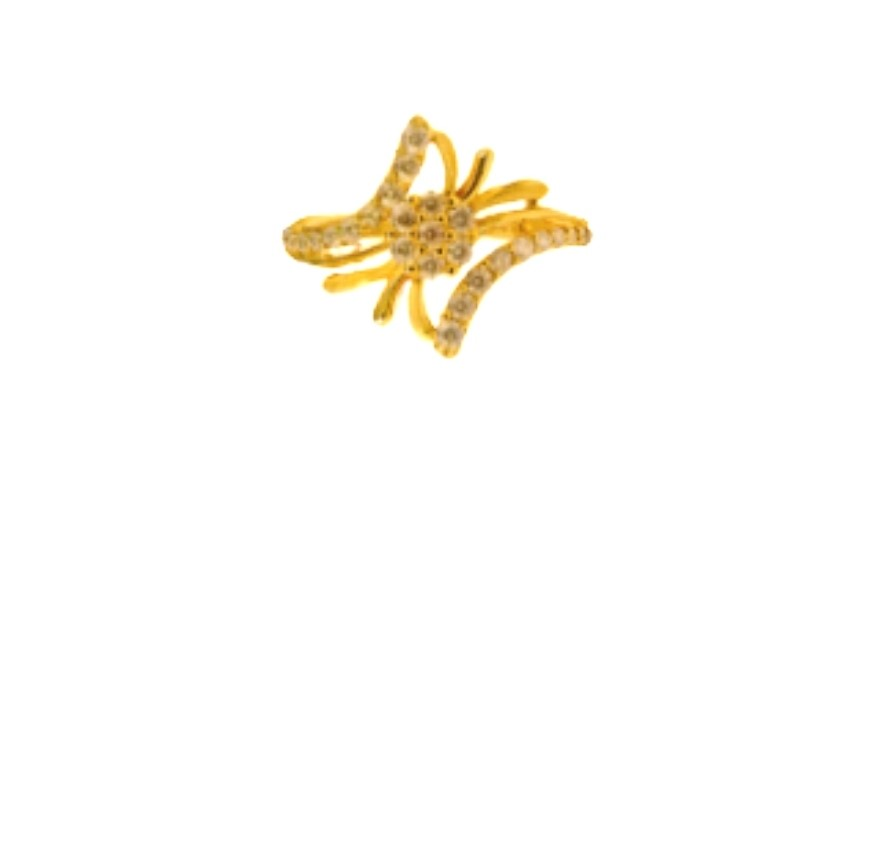
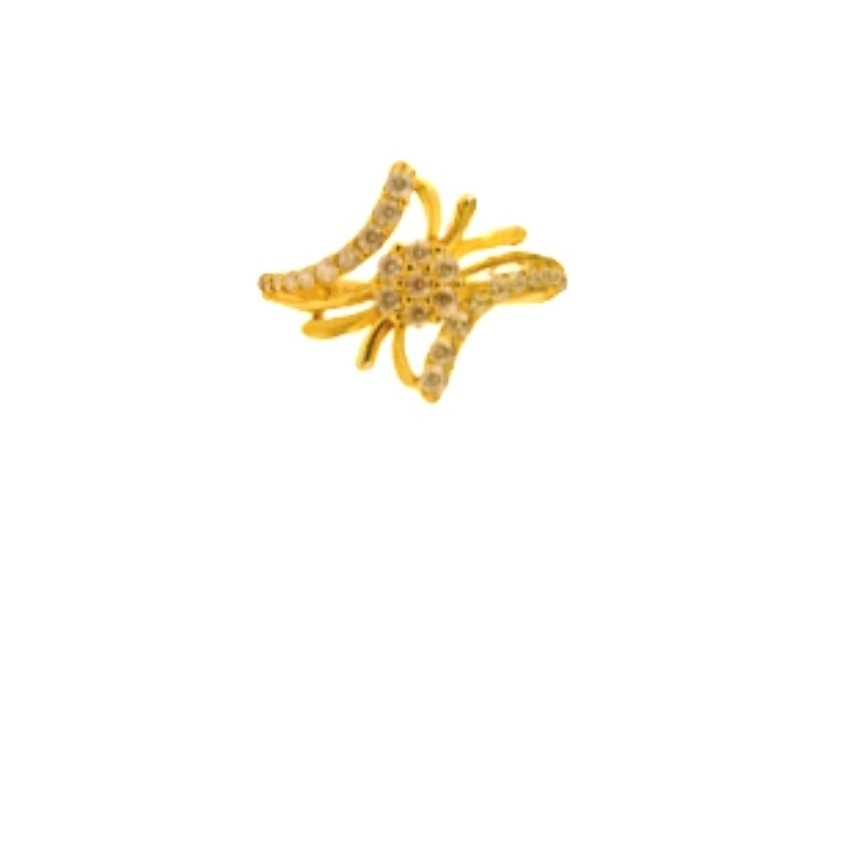
fixed UI for sections getting cut from bottom on some devices

Changed region(s): [[0.3055, 0.1228, 0.6722, 0.4911]]

diff --git a/js/utils.js b/js/utils.js
@@ -97,9 +97,27 @@ function resetMeshForVR() {
   ZRAngle = 0;
   // flipping canvas
   if (jewelType === "ring" && !isDirectionalRing) {
-    glamCanvas.style.transform = "rotateZ(" + 180 + "deg)";
+    if (isMobile || isIOS) {
+      glamCanvas.style.transform =
+        "translate3d(" +
+        0 +
+        "px, " +
+        -60 +
+        "px, " +
+        0 +
+        "px) rotateZ(" +
+        180 +
+        "deg)";
+    } else {
+      glamCanvas.style.transform = "rotateZ(" + 180 + "deg)";
+    }
   } else {
-    glamCanvas.style.transform = "none";
+    if (isMobile || isIOS) {
+      glamCanvas.style.transform =
+        "translate3d(" + 0 + "px, " + -60 + "px, " + 0 + "px)";
+    } else {
+      glamCanvas.style.transform = "none";
+    }
   }
   showJewel();
 }
@@ -112,9 +130,7 @@ function resetMesh() {
   if (jewelType === "ring") {
     cameraControls.azimuthAngle = THREE.MathUtils.degToRad(-180);
   } else {
-    if (selectedJewel === "tribangle")
-      cameraControls.azimuthAngle = THREE.MathUtils.degToRad(-90);
-    else cameraControls.azimuthAngle = THREE.MathUtils.degToRad(-40);
+    cameraControls.azimuthAngle = THREE.MathUtils.degToRad(-40);
   }
   cameraControls.polarAngle = basePhi;
   cameraControls.setFocalOffset(0.0, 0.0, 0.0);
@@ -626,7 +642,8 @@ function isRendererUnsupported() {
     if (
       !(isMobile || isIOS) &&
       browserName === "Chrome" &&
-      unMaskedInfo.renderer.indexOf("OpenGL") === -1
+      unMaskedInfo.renderer.indexOf("OpenGL") === -1 &&
+      unMaskedInfo.renderer.indexOf("SwiftShader") === -1
     ) {
       showErrors([
         {

diff --git a/css/style.css b/css/style.css
@@ -450,6 +450,7 @@ button {
   justify-content: center;
   z-index: 30;
   padding: 25px;
+  padding-bottom: 100px;
   gap: 20px;
   background-color: #eee;
   color: #eb960e !important;
@@ -558,8 +559,9 @@ button {
 .steptext {
   font-size: 18px;
   font-weight: 500;
-  padding: 15px;
+  padding: 20px;
   height: 10vh;
+  margin: 0;
 }
 
 #showhandscreen {
@@ -571,7 +573,9 @@ button {
   align-items: center;
   justify-content: flex-start;
   flex-direction: column;
-  padding: 30px 0;
+  padding: 0;
+  padding-top: 30px;
+  padding-bottom: 15px;
   gap: 10px;
   background-color: rgba(0, 0, 0, 0.25);
   color: white;
@@ -579,7 +583,7 @@ button {
 }
 
 .handimg {
-  height: 70dvh;
+  height: 65dvh;
 }
 
 /* The main RIV view */
@@ -716,6 +720,7 @@ button {
   #usermanual,
   #retrycamscreen {
     padding: 5px;
+    padding-bottom: 75px;
   }
 
   .side-errors {
@@ -737,7 +742,7 @@ button {
   }
 
   .stepimg {
-    width: 40%;
+    width: 35%;
     height: auto;
   }
 
@@ -758,20 +763,18 @@ button {
   }
 
   .handimg {
-    height: 65dvh;
+    height: 60dvh;
     margin-right: 15px;
   }
 
   .switchbtn {
-    margin: 20px;
+    margin: 0 20px;
     border-radius: 50%;
     width: fit-content;
     width: 60px;
     height: 60px;
     padding: 12px;
-    position: absolute;
-    bottom: 30px;
-    right: 0;
+    margin-left: auto;
   }
 
   .switchimg {
@@ -790,7 +793,7 @@ button {
     width: 100%;
     z-index: 20;
     position: absolute;
-    bottom: 0;
+    bottom: 40px;
     left: 0;
     margin: 50px auto;
   }

diff --git a/js/mediapipe.js b/js/mediapipe.js
@@ -458,23 +458,23 @@ async function toggleVideo() {
   }
 }
 
-window.addEventListener("resize", function handleResize(event) {
-  if (isMobile || isIOS) {
-    if (isVideo && window.innerHeight !== screen.height) {
-      const newWidth = (window.innerWidth * 99) / 100;
-      const newHeight = (window.innerHeight * 99) / 100;
+// window.addEventListener("resize", function handleResize(event) {
+//   if (isMobile || isIOS) {
+//     if (isVideo && window.innerHeight !== screen.height) {
+//       const newWidth = (window.innerWidth * 99) / 100;
+//       const newHeight = (window.innerHeight * 110) / 100;
 
-      const showhandscreen = document.getElementById("showhandscreen");
-      setDims(showhandscreen, newWidth, newHeight);
+//       const showhandscreen = document.getElementById("showhandscreen");
+//       setDims(showhandscreen, newWidth, newHeight);
 
-      const usermanual = document.getElementById("usermanual");
-      setDims(usermanual, newWidth, newHeight);
+//       const usermanual = document.getElementById("usermanual");
+//       setDims(usermanual, newWidth, newHeight);
 
-      const retrycamscreen = document.getElementById("retrycamscreen");
-      setDims(retrycamscreen, newWidth, newHeight);
-    }
-  }
-});
+//       const retrycamscreen = document.getElementById("retrycamscreen");
+//       setDims(retrycamscreen, newWidth, newHeight);
+//     }
+//   }
+// });
 
 window.toggleVideo = toggleVideo;
 window.switchFacingMode = switchFacingMode;
